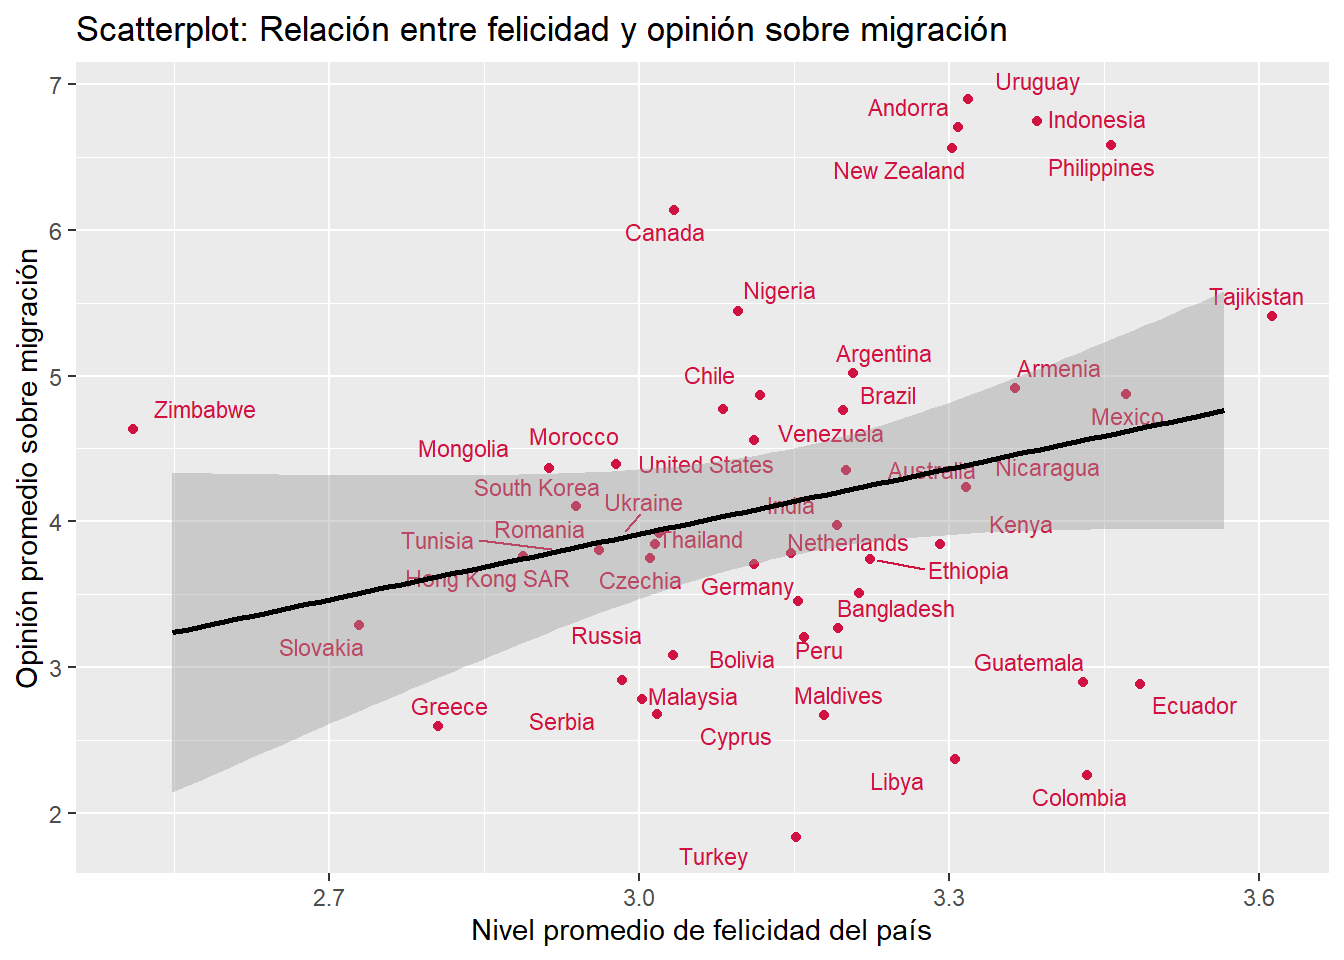
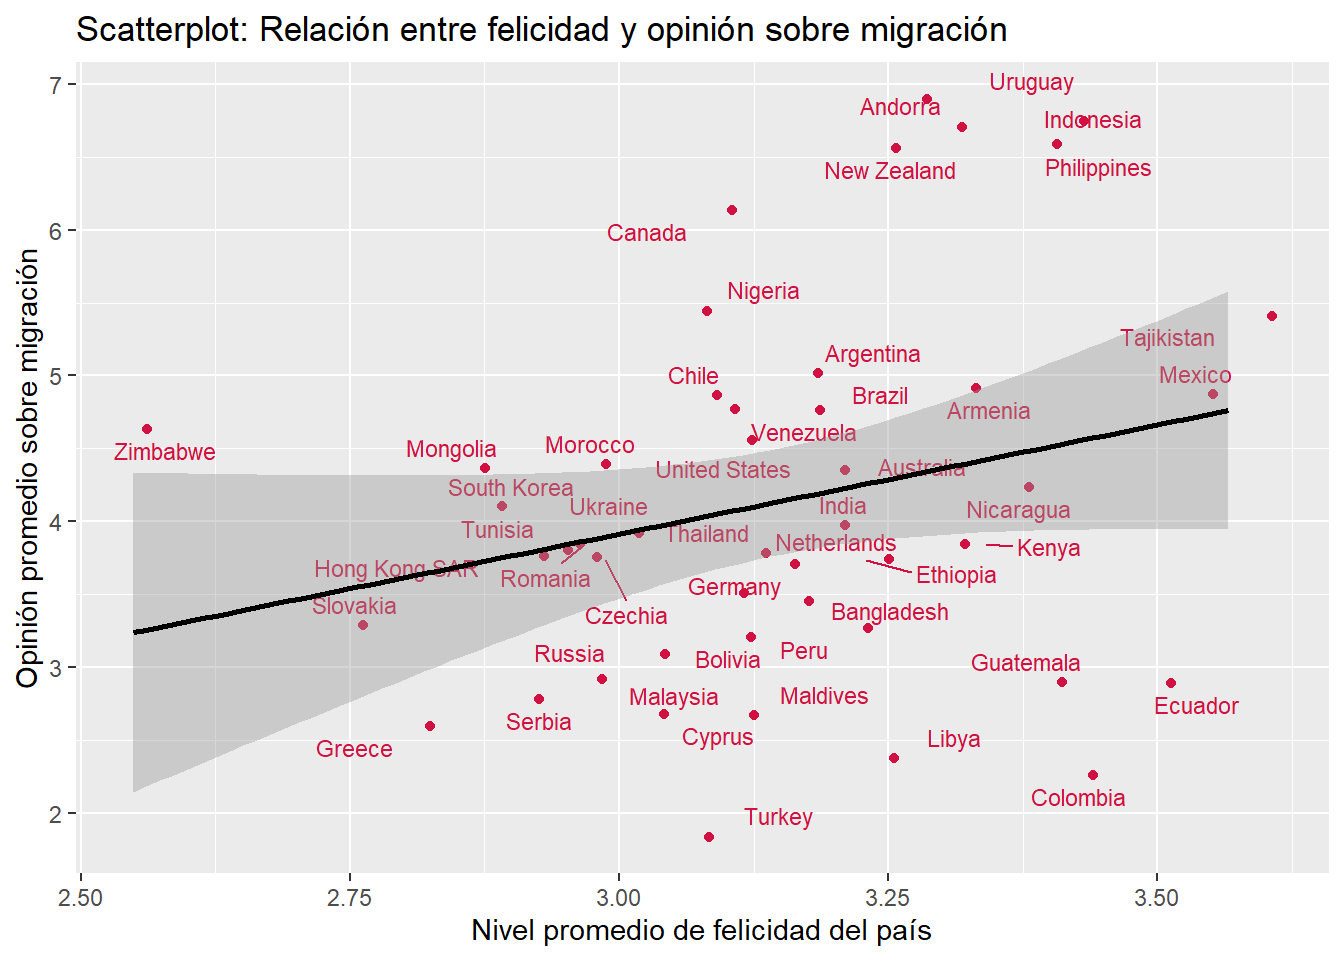
texto

diff --git a/plantilla_informe.html b/plantilla_informe.html
@@ -347,7 +347,7 @@ personal_income
 </figure>
 </div>
 <p><em>Variables independientes de nivel 1</em></p>
-<p>Las variables independientes a nivel individual son: nacionalismo (Q254),&nbsp; cuyas opciones de respuesta van desde Muy orgullosa/o (1) a Para nada orgullosa/o (4). Luego se encuentra la variable ingreso relativo del hogar (personal income, Q288)&nbsp; que consta de una escala de 1 (ingreso más bajo) a 10 (ingreso más alto). Tambien se incluyó la variable female (Q260), y recodificada: 0 = Masculino y 1 = Femenino. Por último, se utilizó la variable autoubicación ideológica en el eje izquierda-derecha (pos_pol), que se encuentra en la pregunta Q240, que consiste en&nbsp; una escala del 1 (izquierda) al 10 (derecha). Los principales estadísticos descriptivos pueden ser encontrados en la @tbl-1, destacamos los resultados de pos_pol, donde se tiende al centro con una mediana 5 y promedio de 5.79 (sd=2.46), también vemos que nacionalismo tiende a que la mayoría presenta un mayor orgullo con promedio 3.44 y mediana 4.</p>
+<p>Las variables independientes a nivel individual son: nacionalismo (Q254), cuyas opciones de respuesta van desde Muy orgullosa/o (1) a Para nada orgullosa/o (4). Luego se encuentra la variable ingreso relativo del hogar (personal income, Q288) que consta de una escala de 1 (ingreso más bajo) a 10 (ingreso más alto). Tambien se incluyó la variable female (Q260), y recodificada: 0 = Masculino y 1 = Femenino. Por último, se utilizó la variable autoubicación ideológica en el eje izquierda-derecha (pos_pol), que se encuentra en la pregunta Q240, que consiste en&nbsp; una escala del 1 (izquierda) al 10 (derecha). Los principales estadísticos descriptivos pueden ser encontrados en la <a href="#tbl-1" class="quarto-xref">Tabla&nbsp;1</a>, destacamos los resultados de pos_pol, donde se tiende al centro con una mediana 5 y promedio de 5.79 (sd=2.46), también vemos que nacionalismo tiende a que la mayoría presenta un mayor orgullo con promedio 3.44 y mediana 4.</p>
 <div id="tbl-2" class="cell quarto-float anchored" data-tbl-cap-location="top">
 <figure class="quarto-float quarto-float-tbl figure">
 <figcaption class="quarto-float-caption-top quarto-float-caption quarto-float-tbl" id="tbl-2-caption-0ceaefa1-69ba-4598-a22c-09a6ac19f8ca">
@@ -520,10 +520,10 @@ meanschooling
 </figure>
 </div>
 <p><em>Variables independientes de nivel 2</em></p>
-<p>Las variables independientes de nivel 2 son: el promedio de felicidad por país (Q46, “qué tan feliz te sientes en general”) con valores del 1 al 4, la cual se invirtió para que a mayor puntaje mayor felicidad promedio, la variable de años promedio de escolaridad (meanschooling) proveniente de datos de la UNESCO de 2018, y el promedio de sensación de seguridad por país (Q131, qué tan seguro te sientes en tu barrio) con valores del 1 al 4, invertidos para que a mayor seguridad un mayor número promedio. Los principales estadísticos descriptivos pueden ser encontrados en la @tbl-2, destacando que existe una alta sensación de seguridad con valores sobre 3 en promedio, mediana y en sus rangos, así como una alta sensación de felicidad promedio, nuevamente con valores rondando el 3 en todos sus descriptivos.</p>
+<p>Las variables independientes de nivel 2 son: el promedio de felicidad por país (Q46, “qué tan feliz te sientes en general”) con valores del 1 al 4, la cual se invirtió para que a mayor puntaje mayor felicidad promedio, la variable de años promedio de escolaridad (meanschooling) proveniente de datos de la UNESCO de 2018, y el promedio de sensación de seguridad por país (Q131, qué tan seguro te sientes en tu barrio) con valores del 1 al 4, invertidos para que a mayor seguridad un mayor número promedio. Los principales estadísticos descriptivos pueden ser encontrados en la <a href="#tbl-2" class="quarto-xref">Tabla&nbsp;2</a>, destacando que existe una alta sensación de seguridad con valores sobre 3 en promedio, mediana y en sus rangos, así como una alta sensación de felicidad promedio, nuevamente con valores rondando el 3 en todos sus descriptivos.</p>
 <p><strong>Métodos</strong></p>
 <p>Los métodos utilizados fueron la estimación de distintos modelos bajo una lógica de carácter multinivel, obteniendo un total de 6 modelos utilizando el programa Rstudio y la librería lmer. Se estimaron un modelo nulo para ver la variabilidad según país que se comentará más adelante, modelos con variables de nivel 1, nivel 2, nivel 1 + nivel 2, uno con pendiente aleatoria en nacionalismo, y uno para ver la interacción entre nacionalismo y felicidad promedio por país. Las fórmulas de los modelos fueron las siguientes:</p>
-<p>–</p>
+<hr>
 <p><em>Modelo nulo</em></p>
 <p><span class="math display">\[
 \text{op\_mig}_{ij} = \gamma_{00} + u_{0j} + r_{ij}
